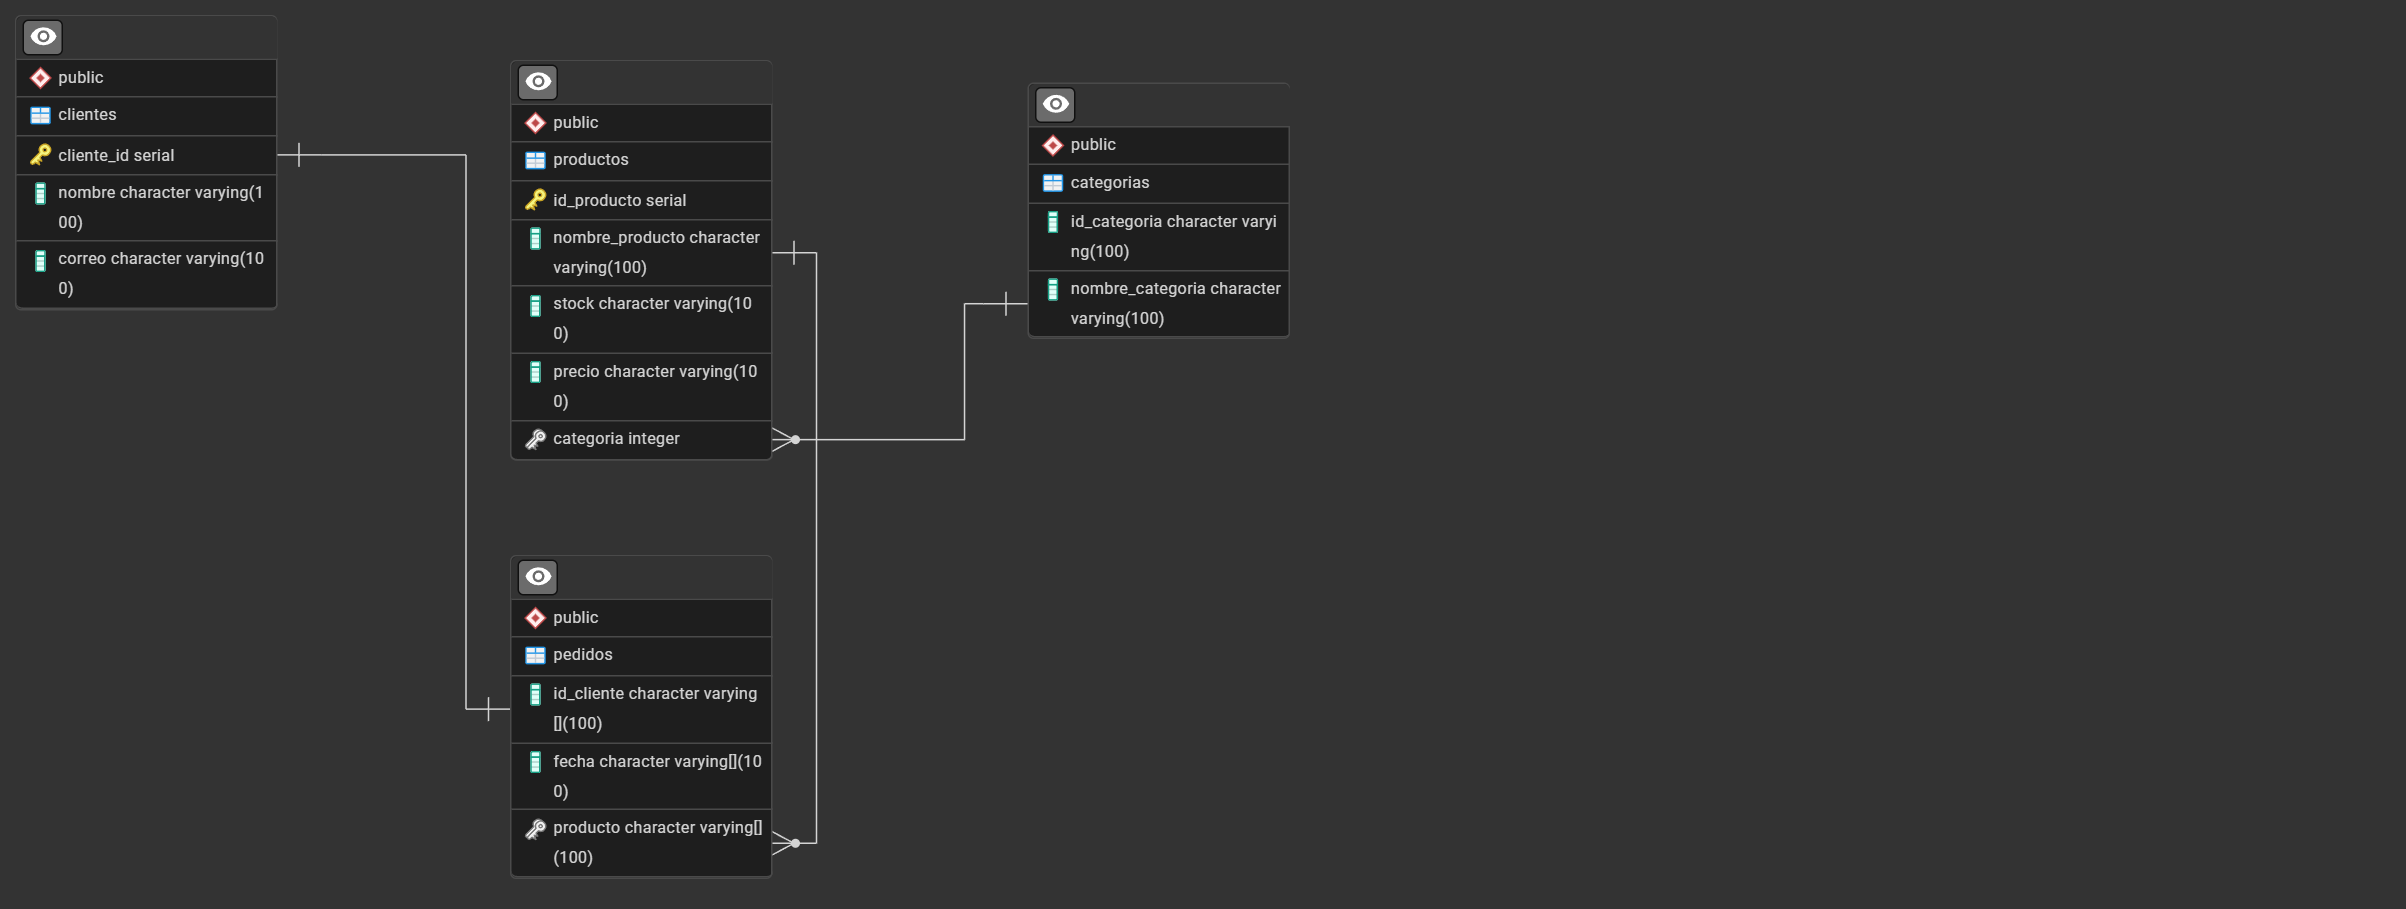
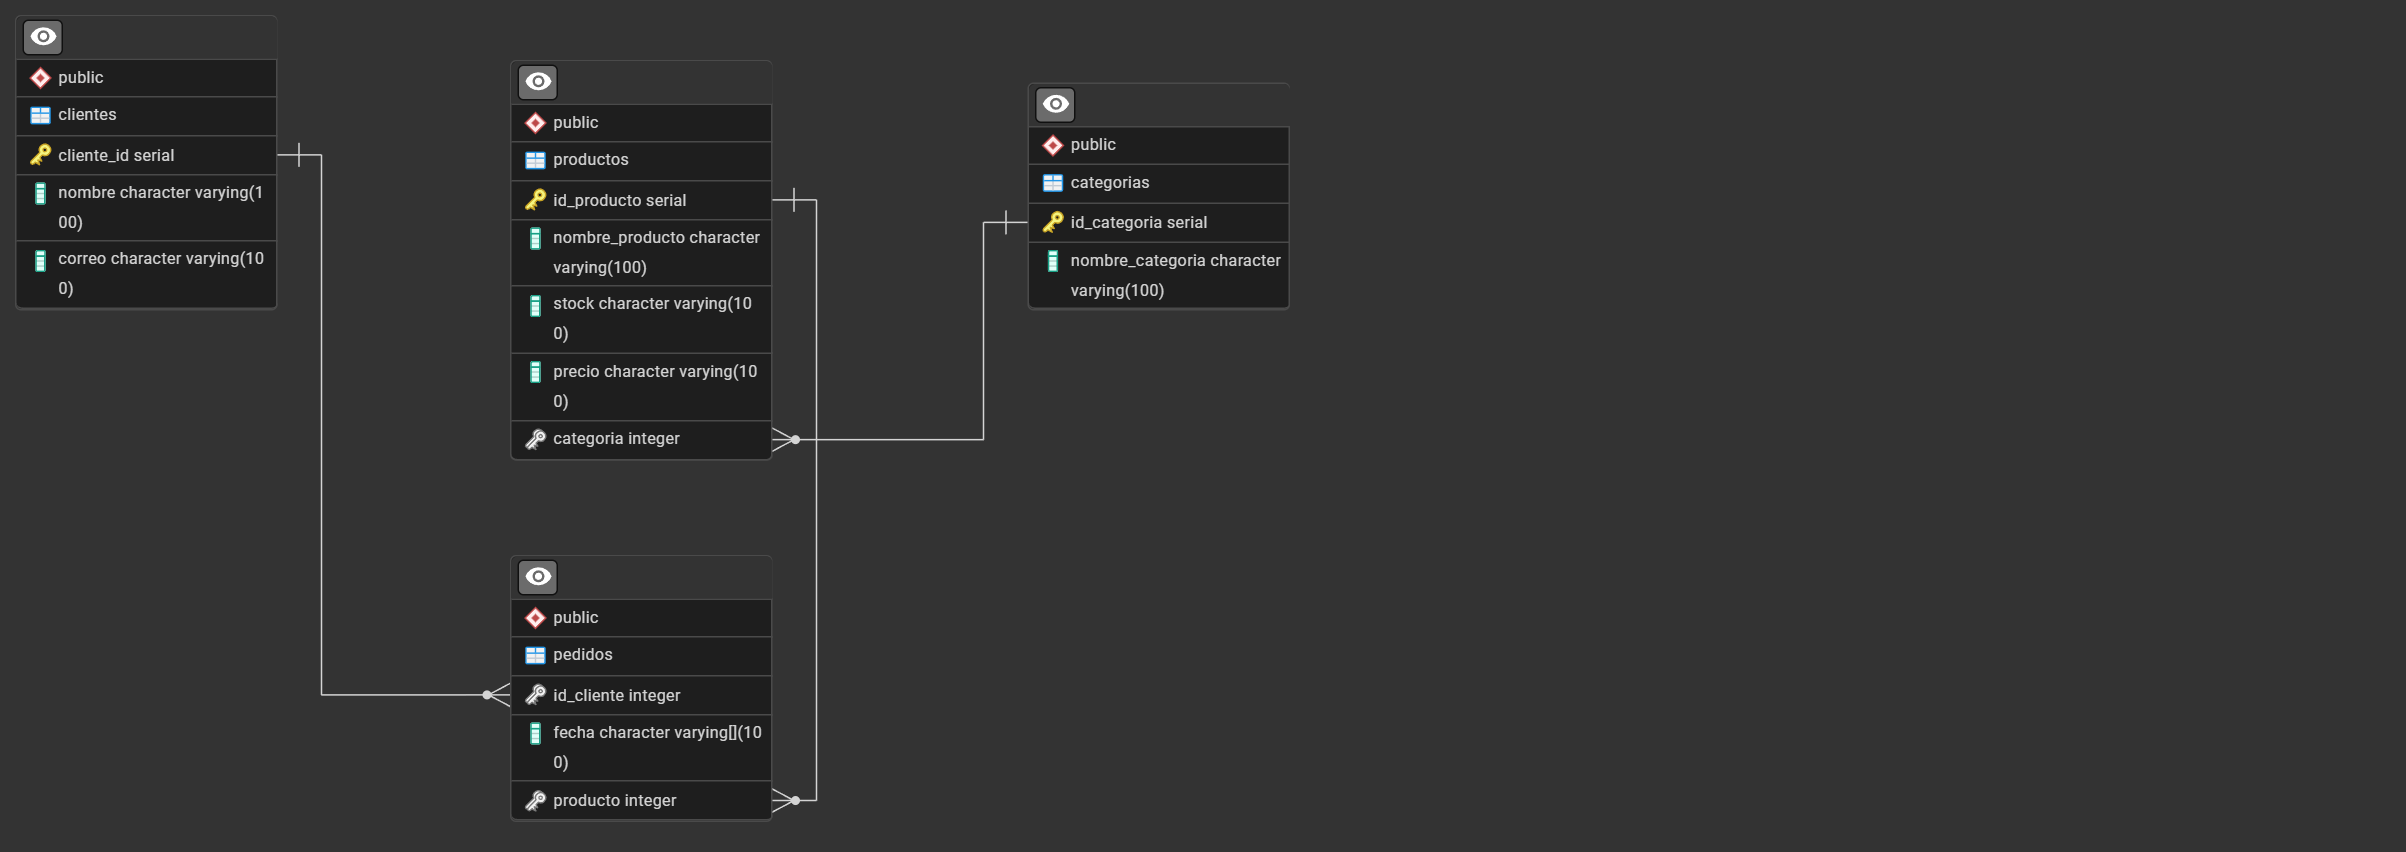
fixed references, updated map and sql

diff --git a/README.md b/README.md
@@ -4,3 +4,8 @@ Primer commit
 //
 Establecidas base de datos y tablas
 //
+2do Commit
+//
+Arreglado referencias mal hechas
+actualizando mapa y sql
+//
